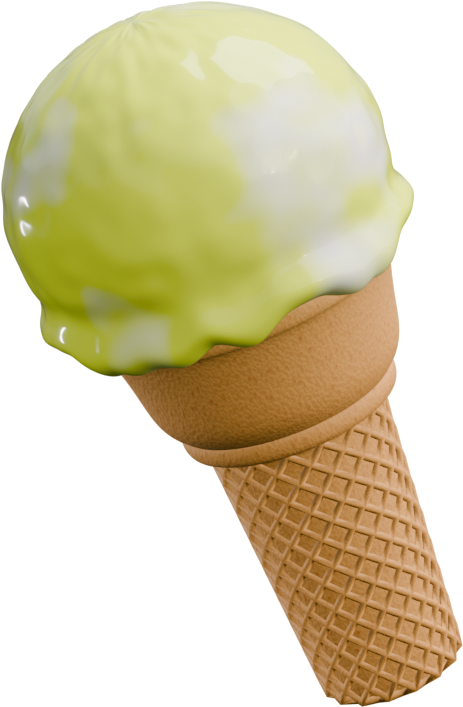
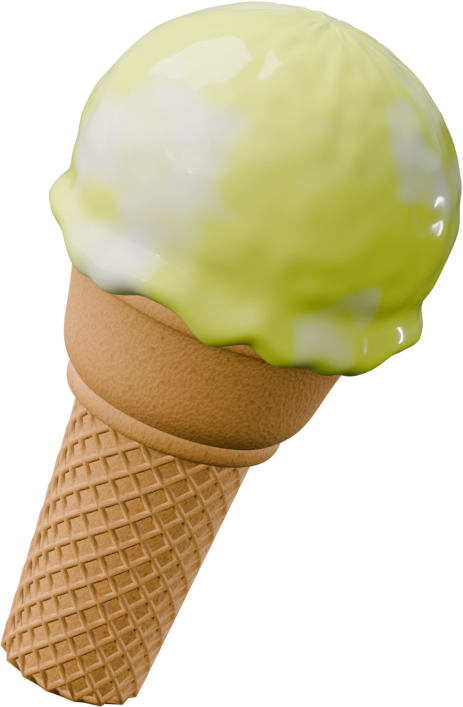
iceCreamの画像を一部反転、アニメーションを追加

diff --git a/index.html b/index.html
@@ -18,6 +18,9 @@
 </head>
 
 <body>
+    <div class="loading">
+
+    </div>
     <header class="header">
         <nav class="nav">
             <ul class="navList">
@@ -137,7 +140,7 @@
         <section id="concept">
             <div class="wrapper">
                 <h2 class="subTitle">CONC<span class="accentColorBrown">E</span>PT</h2>
-                <img src="src/img/sakamoto.PNG" alt="イベント代表の坂本さんの写真">
+                <img class="iceCream" src="src/img/sakamoto.PNG" alt="イベント代表の坂本さんの写真">
                 <h3>ITPM社員がITに関する情報交換や
                     <br>意見を出し合うことができる社内イベント
                 </h3>
@@ -158,10 +161,10 @@
                         <p> 成果物として残すことで自分をアピールするための材料になったりするからです。</p>
                         <p> ICEはそんなエンジニア にとって大切なアウトプットができる場所です。</p>
                     </section>
-                    <img src="src/img/iceCream/Peach_IceCream.png" alt="peachアイスの画像">
+                    <img class="iceCream inversion" src="src/img/iceCream/Peach_IceCream.png" alt="peachアイスの画像">
                 </li>
                 <li class="messageListContent">
-                    <img src="src/img/iceCream/Pear_IceCream.png" alt="pearアイスの画像">
+                    <img class="iceCream" src="src/img/iceCream/Pear_IceCream.png" alt="pearアイスの画像">
                     <section class="messageItem">
                         <h3>もの作りを楽しもう！</h3>
                         <p>IT知識がまだ乏しく、わからないことは多々あれど、</p>
@@ -179,10 +182,10 @@
                         <p>そして今回、その成果が結実する集大成をお届けします！</p>
                         <p>どうぞこの記念すべき瞬間をお見逃しなく。</p>
                     </section>
-                    <img src="src/img/iceCream/Lemon_IceCream.png" alt="lemonアイスの画像">
+                    <img class="iceCream inversion" src="src/img/iceCream/Lemon_IceCream.png" alt="lemonアイスの画像">
                 </li>
                 <li class="messageListContent">
-                    <img src="src/img/iceCream/Kiwi_IceCream.png" alt="kiwiアイスの画像">
+                    <img class="iceCream" src="src/img/iceCream/Kiwi_IceCream.png" alt="kiwiアイスの画像">
                     <section class="messageItem">
                         <h3>最後のICEを堪能しよう！</h3>
                         <p>ついにファイナル！ICE（ITPM Conference and Exhibition）</p>
@@ -247,6 +250,7 @@
                             <p class="startTime">16:10 ~ 16:40</p>
                             <h3 class="timelineItemTitle">社長</h3>
                             <p class="timelineItemDiscript">たぶん1万円で人生変えられるLinux入門</p>
+                            
                         </div>
                     </li>
                     <li class="timelineListContent">

diff --git a/css/style.scss b/css/style.scss
@@ -54,6 +54,30 @@ p {
 }
 
 /*-------------
+    Loading 
+-------------*/
+.loading {
+    display: flex;
+    justify-content: center;
+    align-items: center;
+    flex-direction: column;
+    position: fixed;
+    top: 0;
+    left: 0;
+    z-index: 9999;
+    width: 100dvw;
+    height: 100dvh;
+    overflow: hidden;
+    background-color: red;
+    transition: all 0.5s linear;
+ 
+    &.loaded {
+        opacity: 0;
+        visibility: hidden;
+      }
+}
+
+/*-------------
     Header 
 -------------*/
 .header {
@@ -127,6 +151,7 @@ header .nav {
                     top: 50%;
                     left: 50%;
                     transform: translate(-50%, -50%);
+                    width: 100dvw;
                     height: 100%;
                     object-fit: cover;
                 }
@@ -176,7 +201,7 @@ header .nav {
         }
     }
 
-    /*-------------
+/*-------------
     Histry
 -------------*/
     #histry {
@@ -315,7 +340,7 @@ header .nav {
         }
     }
 
-    /*-------------
+/*-------------
     Lead
 -------------*/
     #lead {
@@ -394,7 +419,7 @@ header .nav {
         }
     }
 
-    /*-------------
+/*-------------
     Massage
 -------------*/
     #message {
@@ -408,12 +433,27 @@ header .nav {
                 align-items: center;
                 width: 100%;
 
-                img {
+                .iceCream {
                     width: 38%;
                     padding: 8%;
                     object-fit: contain;
+                    animation: floating infinite ease-in-out 3s;
+
+                    &.inversion {
+                        animation: floating2 infinite ease-in-out 3s;
+                    }
+                }
+                @keyframes floating {
+                    0% {transform: translateY(5%); }
+                    50% {transform: translateY(-5%); }
+                    100% {transform: translateY(5%); }
                 }
 
+                @keyframes floating2 {
+                    0% {transform: translateY(-5%) }
+                    50% {transform: translateY(5%) }
+                    100% {transform: translateY(-5%) }
+                }
                 .messageItem {
                     h3 {
                         line-height: 4rem;
@@ -439,7 +479,7 @@ header .nav {
         }
     }
 
-    /*-------------
+/*-------------
     Timeline
 -------------*/
     #timeline {
@@ -567,7 +607,7 @@ header .nav {
         }
     }
 
-    /*-------------
+/*-------------
     Map
 -------------*/
     #map {

diff --git a/css/style.css b/css/style.css
@@ -41,6 +41,29 @@ p {
 }
 
 /*-------------
+    Loading 
+-------------*/
+.loading {
+  display: flex;
+  justify-content: center;
+  align-items: center;
+  flex-direction: column;
+  position: fixed;
+  top: 0;
+  left: 0;
+  z-index: 9999;
+  width: 100dvw;
+  height: 100dvh;
+  overflow: hidden;
+  background-color: red;
+  transition: all 0.5s linear;
+}
+.loading.loaded {
+  opacity: 0;
+  visibility: hidden;
+}
+
+/*-------------
     Header 
 -------------*/
 .header {
@@ -132,6 +155,7 @@ header .nav {
   top: 50%;
   left: 50%;
   transform: translate(-50%, -50%);
+  width: 100dvw;
   height: 100%;
   -o-object-fit: cover;
      object-fit: cover;
@@ -350,11 +374,37 @@ header .nav {
   align-items: center;
   width: 100%;
 }
-.main #message .messageList .messageListContent img {
+.main #message .messageList .messageListContent .iceCream {
   width: 38%;
   padding: 8%;
   -o-object-fit: contain;
      object-fit: contain;
+  animation: floating infinite ease-in-out 3s;
+}
+.main #message .messageList .messageListContent .iceCream.inversion {
+  animation: floating2 infinite ease-in-out 3s;
+}
+@keyframes floating {
+  0% {
+    transform: translateY(5%);
+  }
+  50% {
+    transform: translateY(-5%);
+  }
+  100% {
+    transform: translateY(5%);
+  }
+}
+@keyframes floating2 {
+  0% {
+    transform: translateY(-5%);
+  }
+  50% {
+    transform: translateY(5%);
+  }
+  100% {
+    transform: translateY(-5%);
+  }
 }
 .main #message .messageList .messageListContent .messageItem h3 {
   line-height: 4rem;

diff --git a/js/script.js b/js/script.js
@@ -1,5 +1,18 @@
 'use strict';
 
+//ローディング画面制御
+const loading = document.querySelector(".loading");
+
+//ページの読み込み完了時に処理を実行
+window.addEventListener("load", () => {
+   //3秒後にローディング画面を非表示にする
+  setTimeout(() => {
+    loading.classList.add("loaded");
+  }, 3000);
+});
+
+
+
 //　横スクロール制御
 const container = document.querySelector('.timeline');
 const slides = document.querySelectorAll('.timelineListContent');
